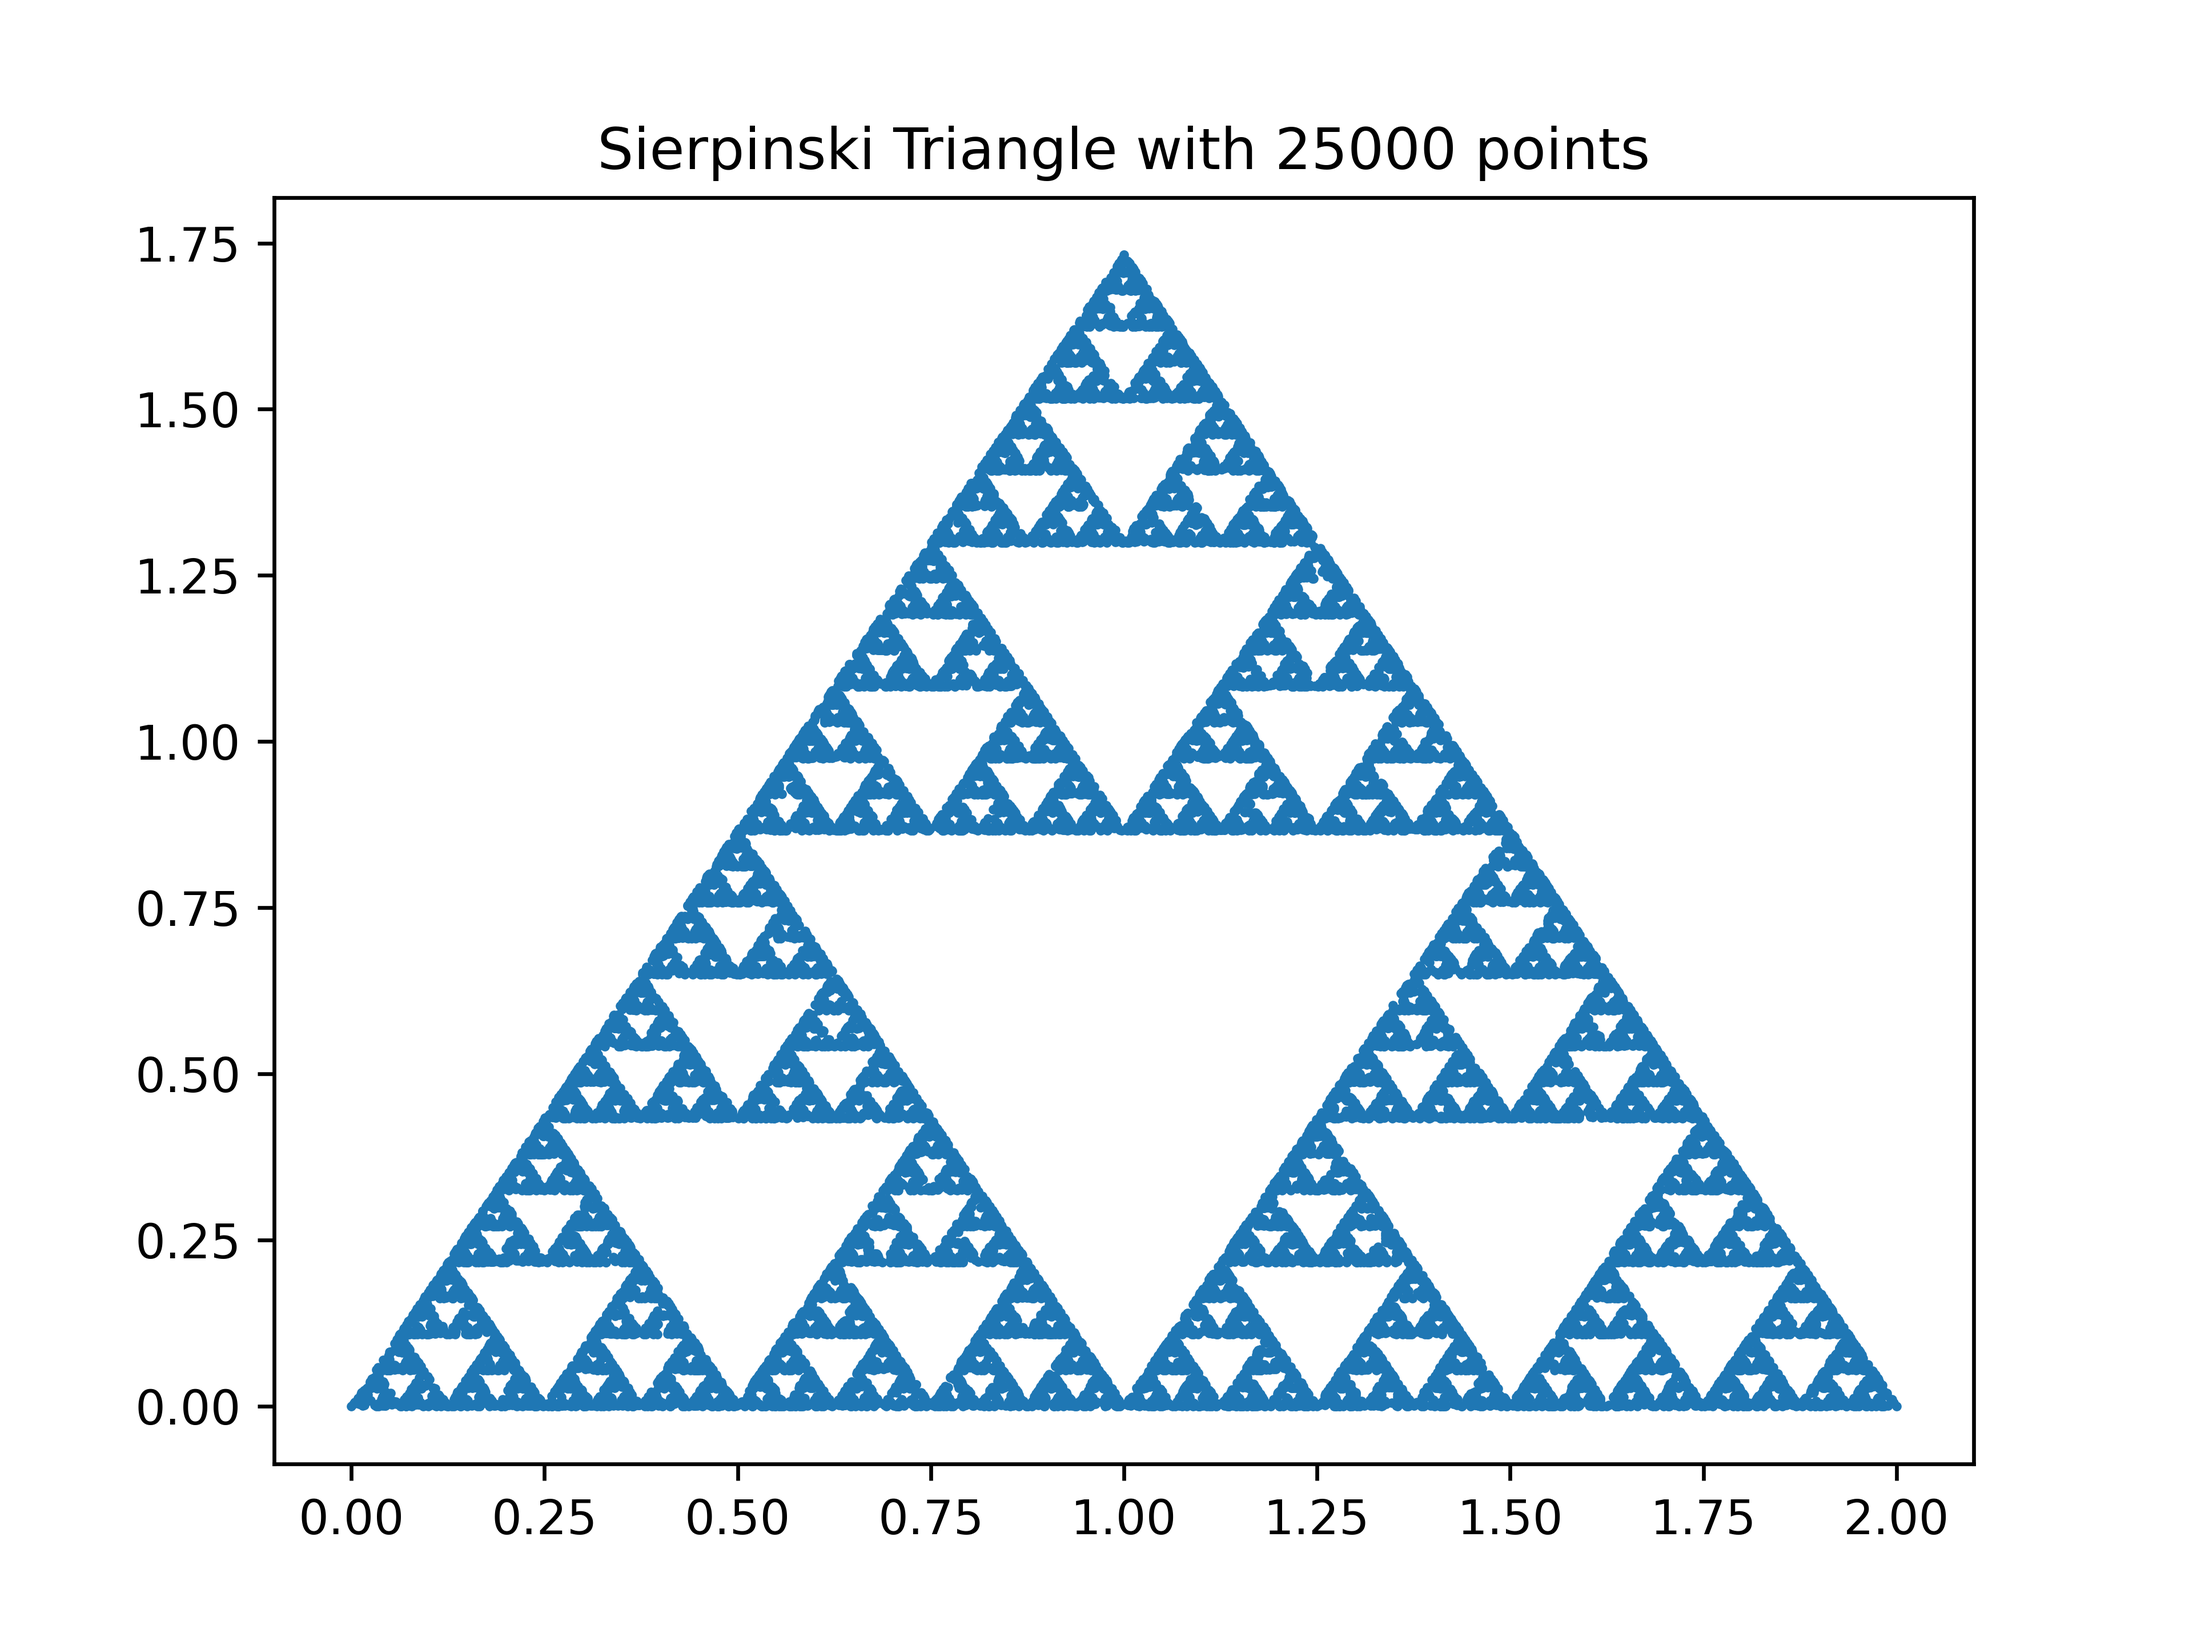
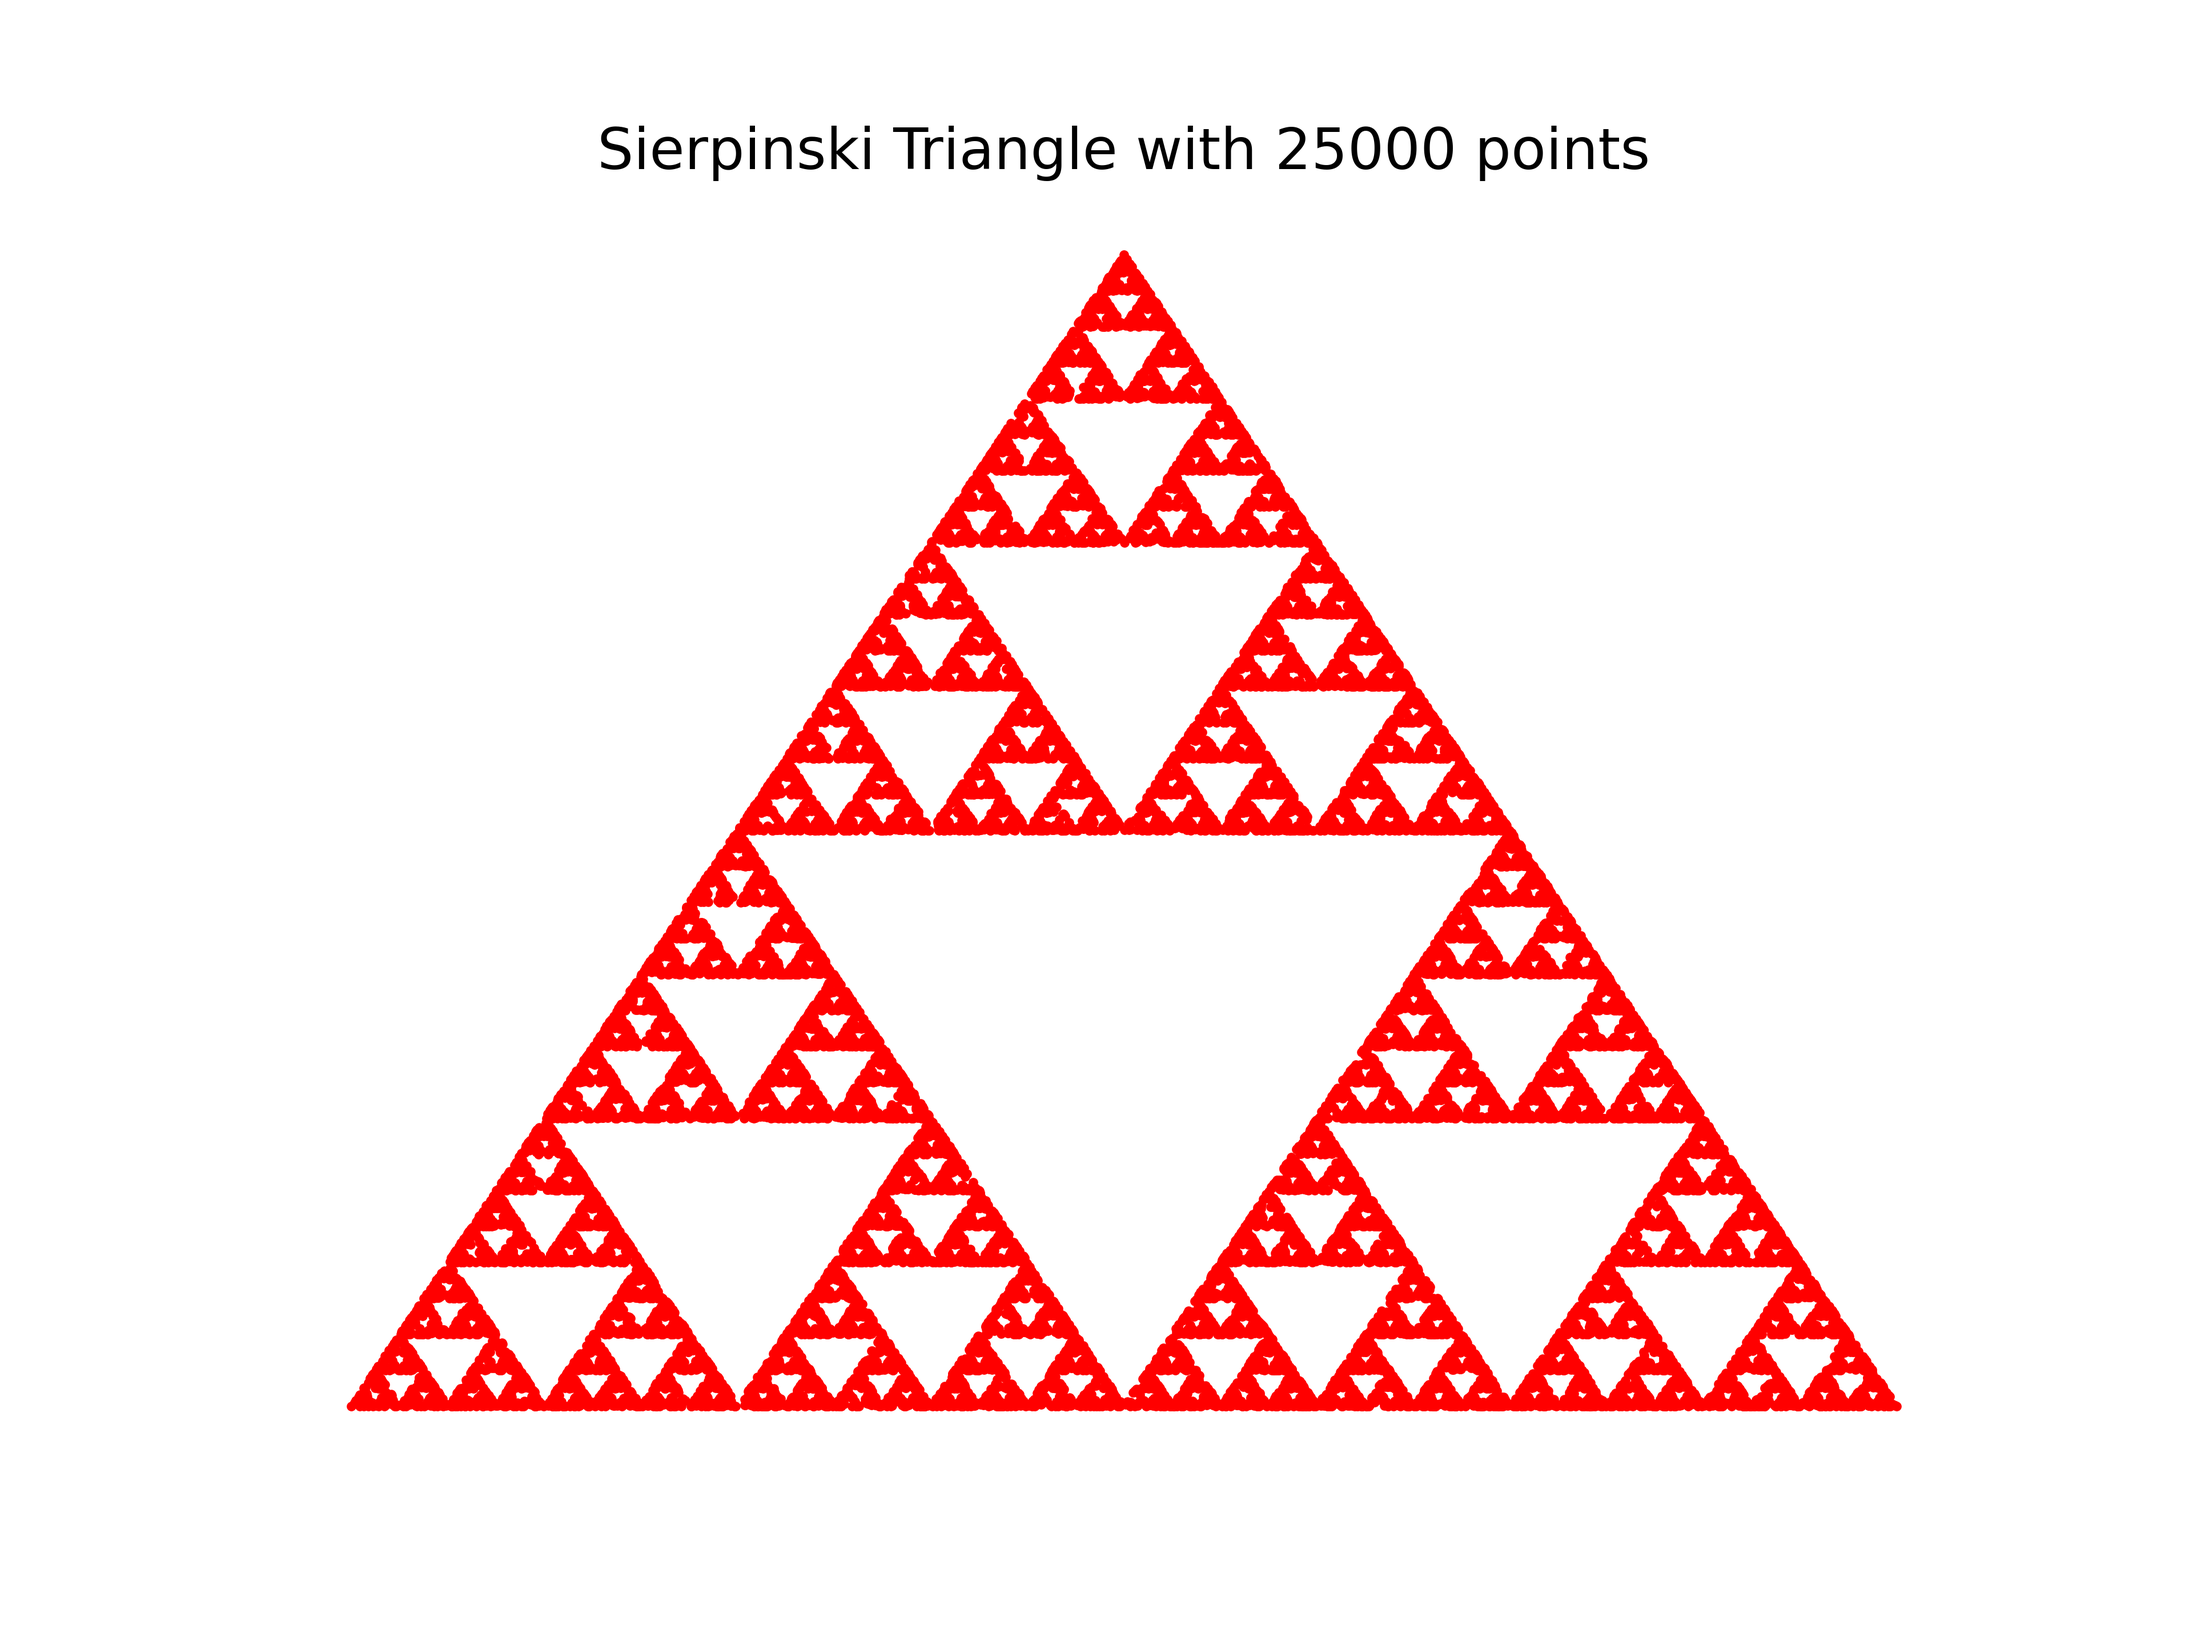
Removed axes

diff --git a/chaosgame.py b/chaosgame.py
@@ -54,7 +54,8 @@ def chaosGame(fileName = "output.png", dpi  = 600):
         count += 1
 
     print("Calculations complete...\nStarting plotting...")
-    plotter.scatter(xPoints, yPoints, s = 1)
+    plotter.axis("off")
+    plotter.scatter(xPoints, yPoints, s = 1, color = "red")
     plotter.title("Sierpinski Triangle with {0} points".format(maximum))
     plotter.savefig(fileName, dpi = dpi)
     print("Plotting complete")
